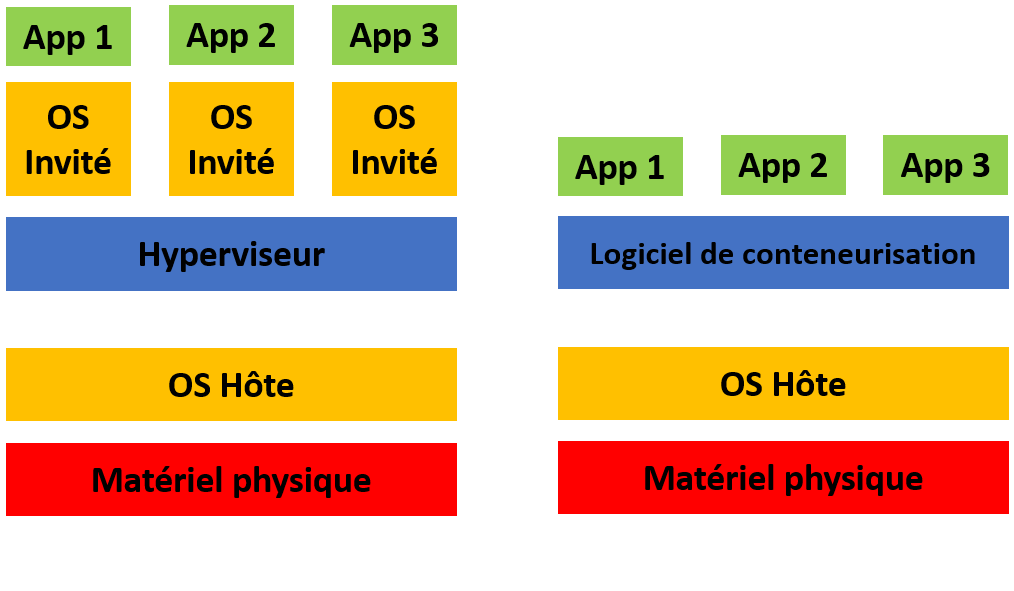
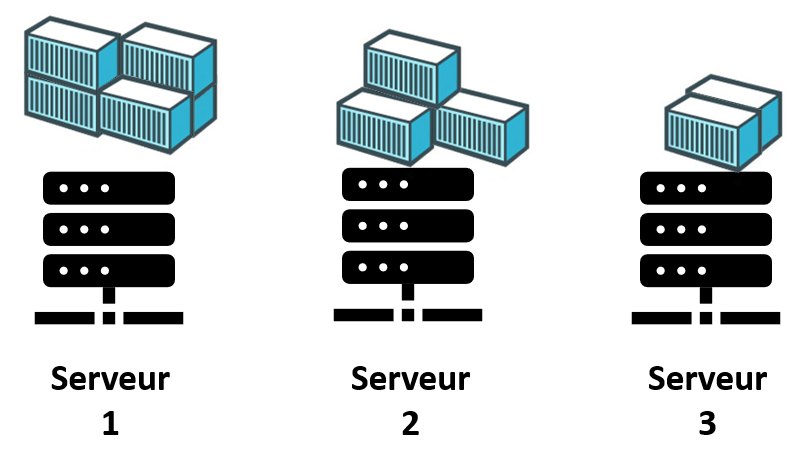
edit

diff --git a/slides/resilience-cloud.html b/slides/resilience-cloud.html
@@ -138,10 +138,12 @@
 </section>
 <!--Conteneurisation-->
 <section>
-  <h2>
+  <h2 style="margin-top: -2%;">
     Conteneurisation
   </h2>
-  <img src="/images/containervsvirtua.png">
+  <img style="width: 50%; margin-right: -100%"  src="/images/containervsvirtua.png">
+  <img style="position: fixed; left: -17%; bottom: -4%;" src="/images/docker.png">
+
   <aside data-markdown class="notes">
 
   Dès le début des années 2000, le concept de containeurisation 
